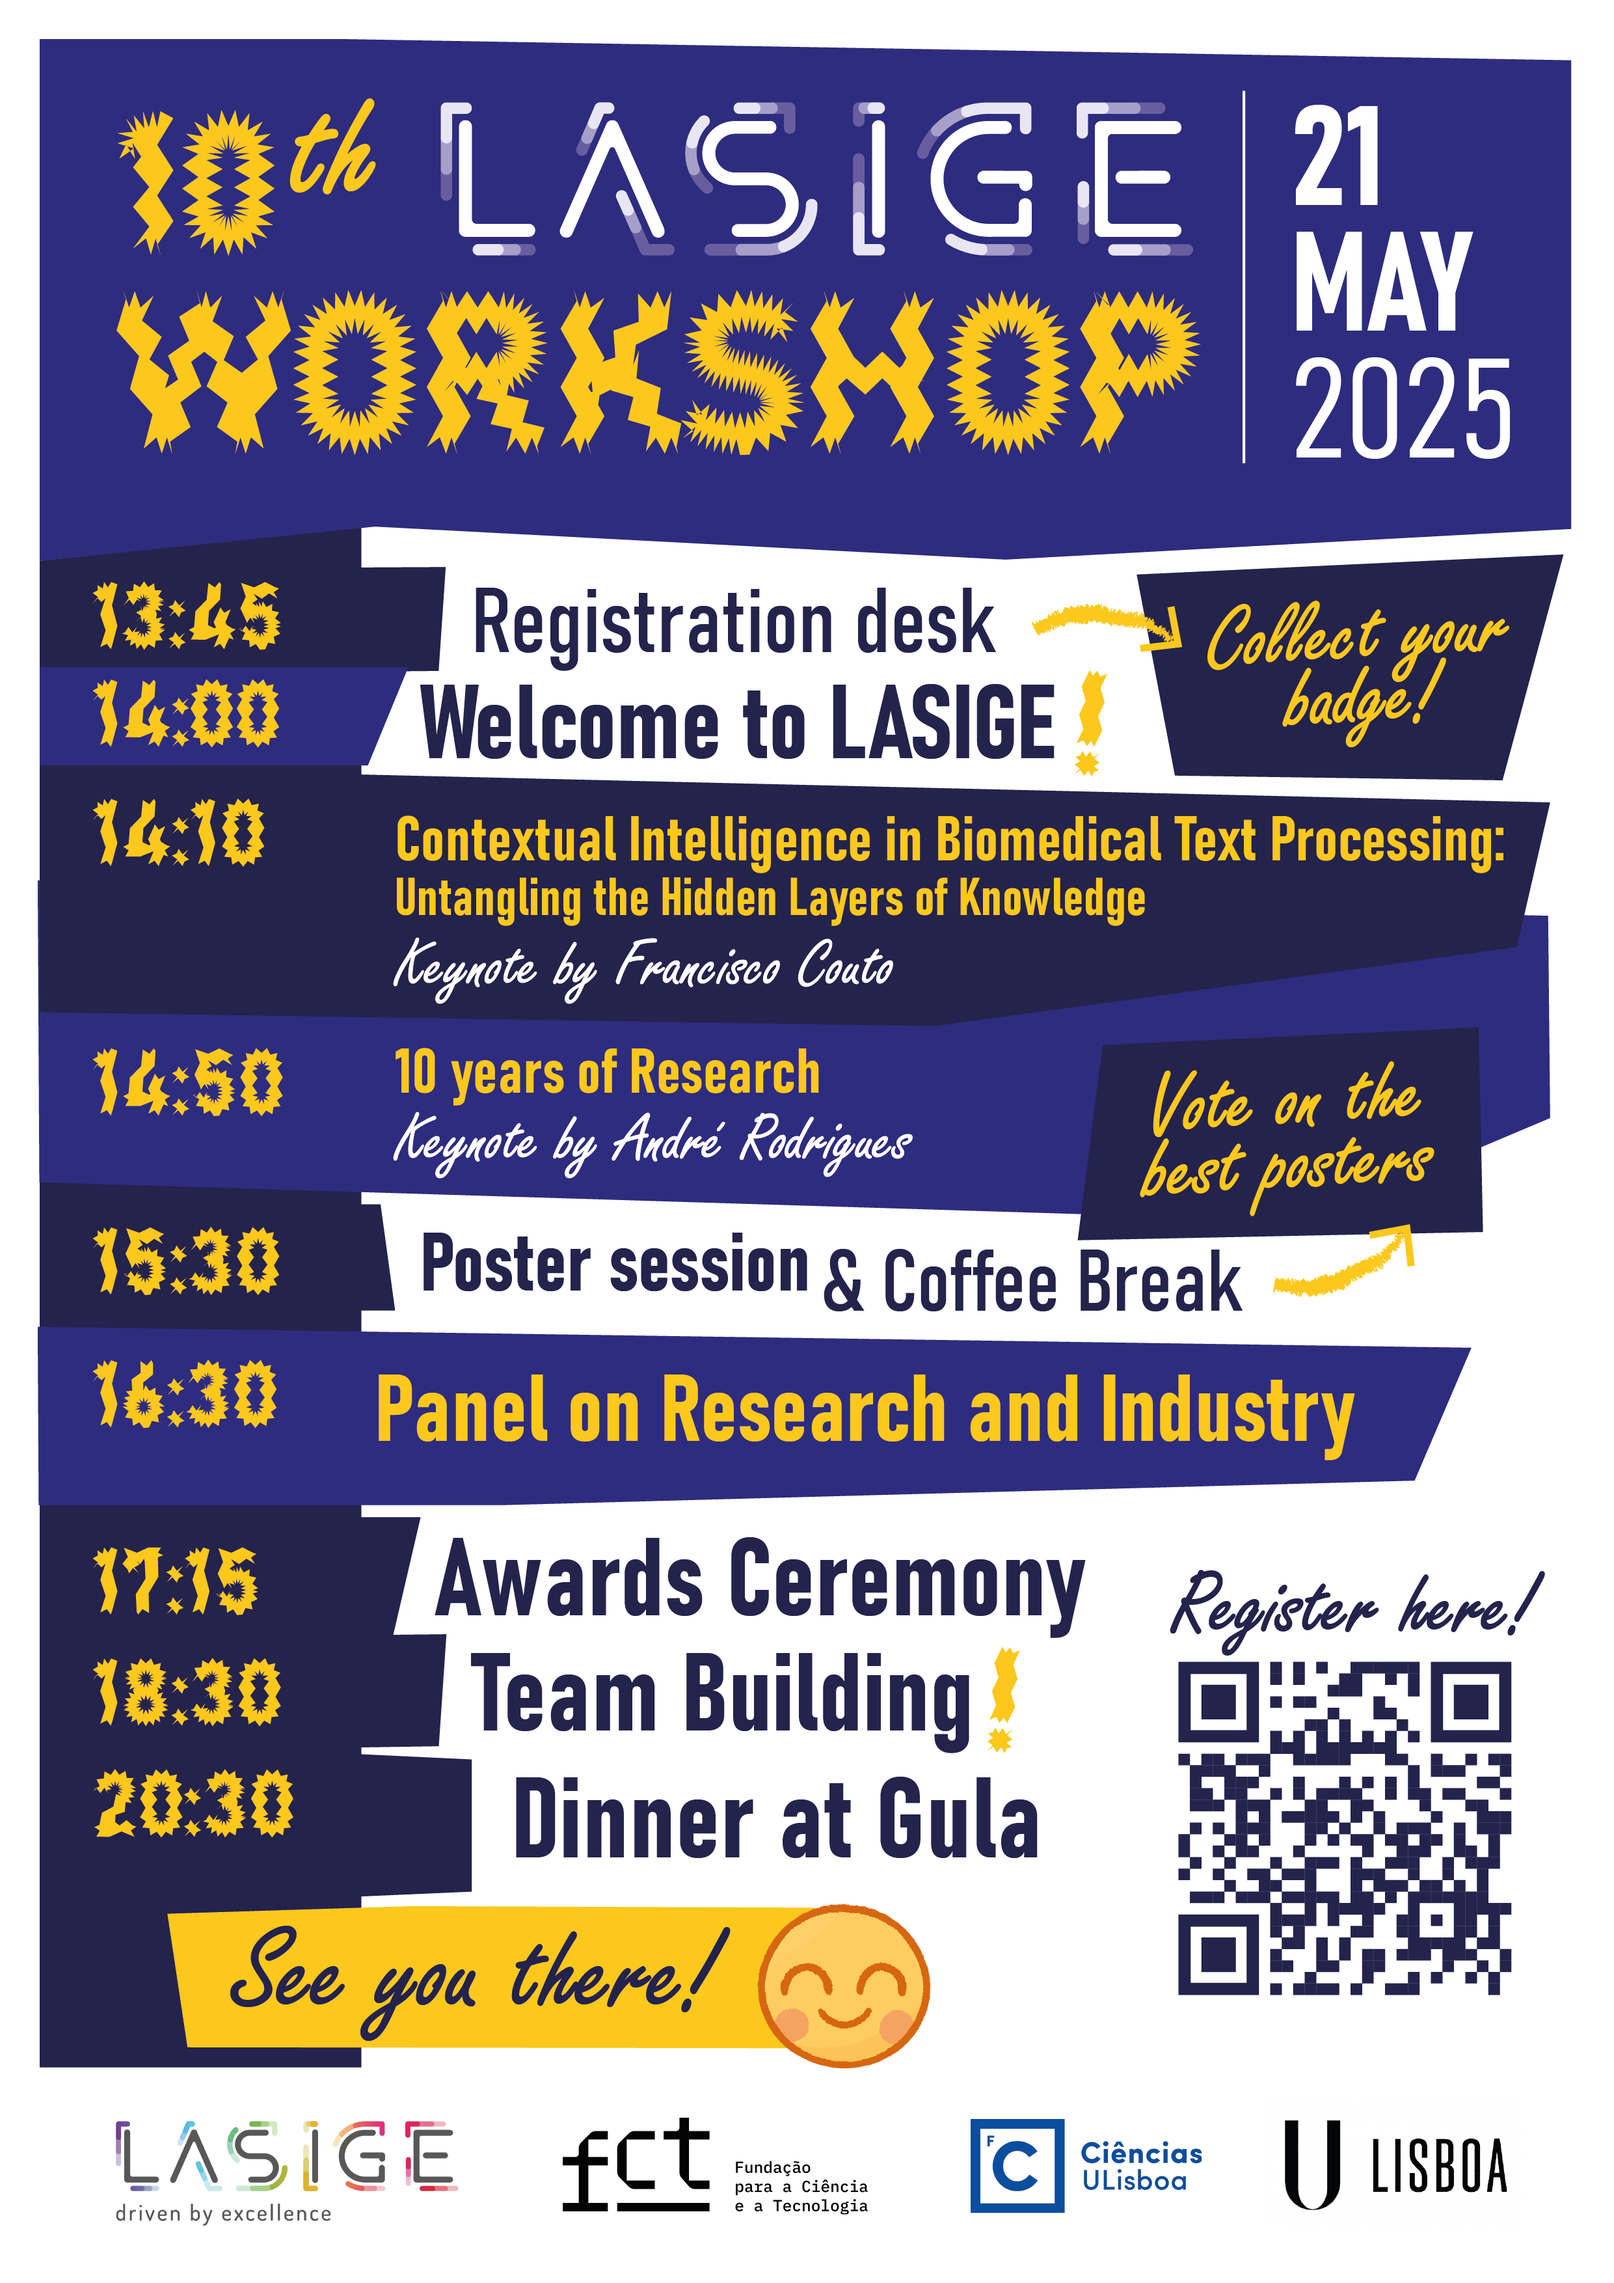
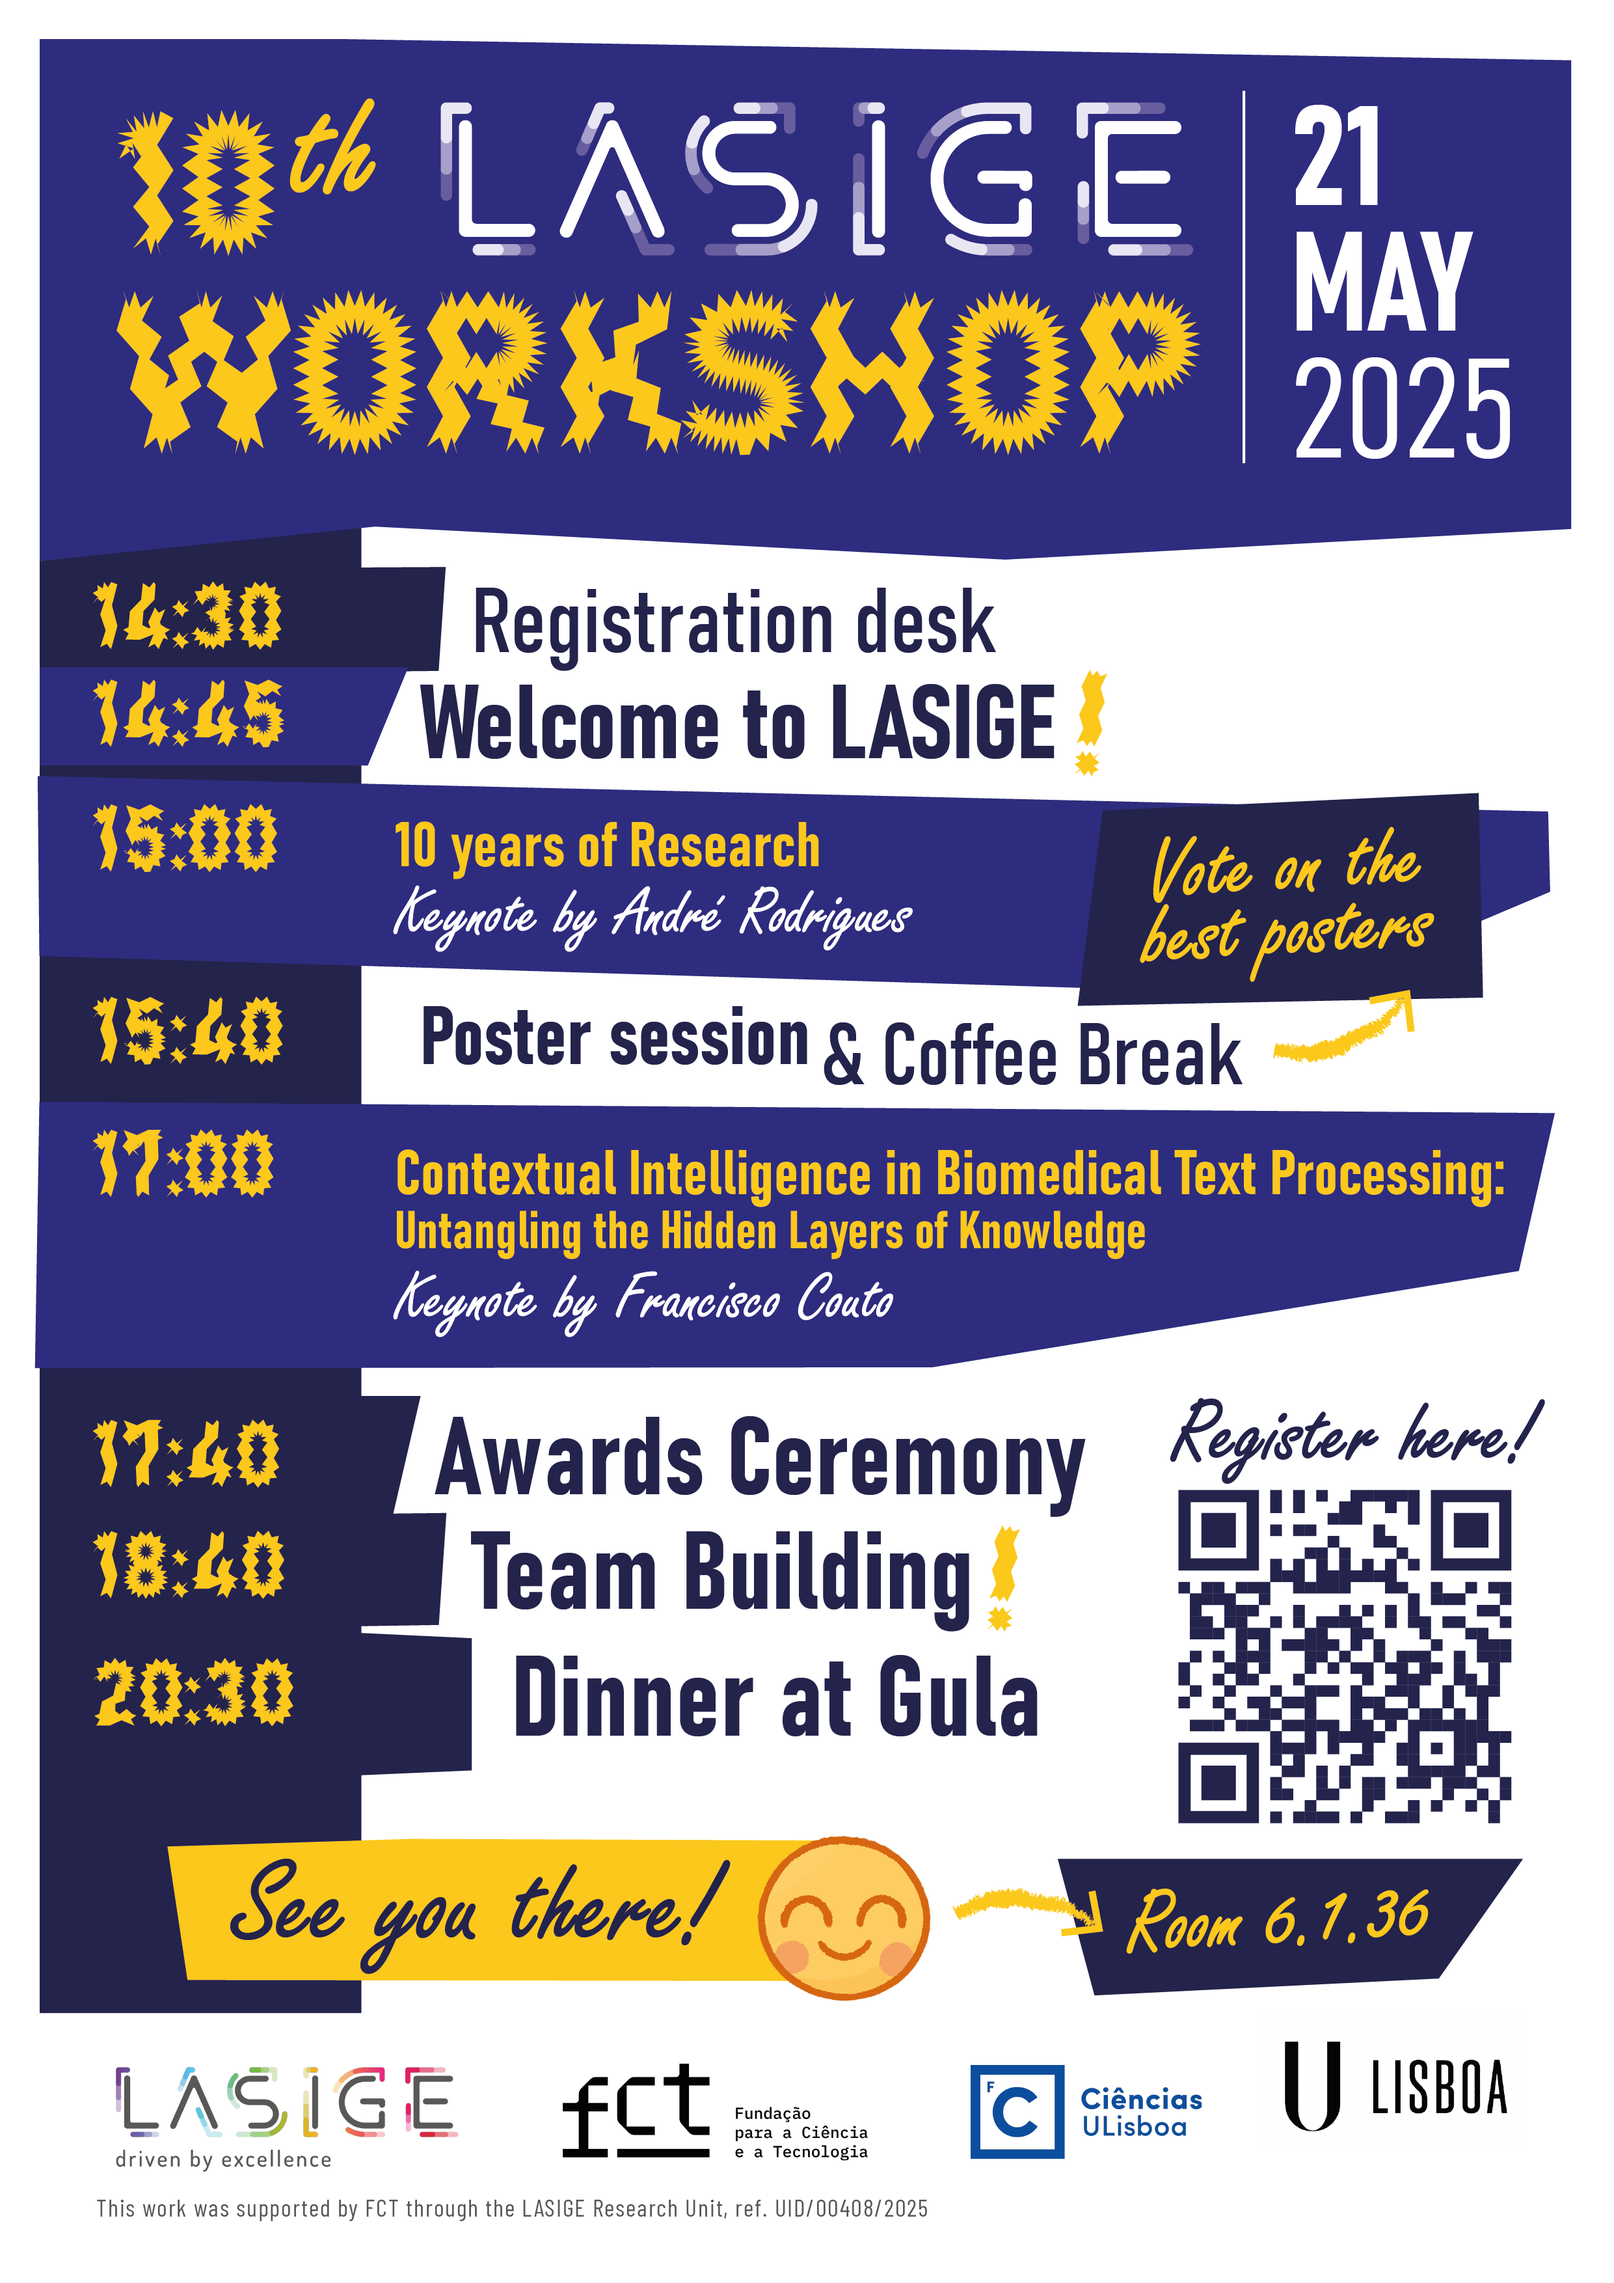
program update

diff --git a/js/workshop.js b/js/workshop.js
@@ -20,11 +20,10 @@ function showWorkshopInfo(workshop = -1) {
             $("#workshop_subtitle").text("");
             //$("#workshop_text").text("");
             $("#workshop_date").text("Date: May 21st");
-            $("#workshop_location").text("Location: Room TBD at FCUL");
+            $("#workshop_location").text("Location: 6.1.36");
             $("#workshop_more_form_text").text("");
-            $("#workshop_form").text("REGISTER HERE");
-            $("#workshop_form").attr("href", "https://forms.gle/zDFxguciHq8XcovYA");
-            $("#workshop_form").attr("style", "display:block");
+            $("#workshop_form").text("");
+            $("#workshop_form").attr("style", "display:none");
             
 
             $("#workshop_tabs").html(`
@@ -128,24 +127,23 @@ function showWorkshopMain(workshop = -1) {
                     <p>We have a day full of activities, come and join us!</p>
 
                     <ul class="list-left ">
-                    <li><strong>13:45</strong>      Registration</li>
-                    <li><strong>14:00</strong>      Welcome to LASIGE</li>
-                    <li><strong>14:10</strong>      "Contextual Intelligence in Biomedical Text Processing: Untangling the Hidden Layers of Knowledge" | Keynote talk by Francisco Couto</li>
-                    <li><strong>14:50</strong>      "10 years of Research" | Keynote talk by André Rodrigues</li>
-                    <li><strong>15:30</strong>      Poster Session and Coffee Break</li>
-                    <li><strong>16:30</strong>      Panel on Research and Industry</li>                    
-                    <li><strong>17:15</strong>      Awards Ceremony</li>
-                    <li><strong>18:30</strong>      Team Building</li>
+                    <li><strong>14:30</strong>      Registration</li>
+                    <li><strong>14:45</strong>      Welcome to LASIGE</li>
+                    <li><strong>15:00</strong>      "10 years of Research" | Keynote talk by André Rodrigues</li>
+                    <li><strong>15:40</strong>      Poster Session and Coffee Break</li>
+                    <li><strong>17:00</strong>      "Contextual Intelligence in Biomedical Text Processing: Untangling the Hidden Layers of Knowledge" | Keynote talk by Francisco Couto</li>                   
+                    <li><strong>17:40</strong>      Awards Ceremony</li>
+                    <li><strong>18:40</strong>      Team Building</li>
                     <li><strong>20:30</strong>      Dinner at Gula</li>
                     </ul>
-
-                    <h3 style="margin-top:50px;">"Contextual Intelligence in Biomedical Text Processing: Untangling the Hidden Layers of Knowledge"</h3>
-                    <p><strong>Speaker:</strong> Francisco Couto</p>
-                    <p><strong>Brief description:</strong> In today’s fast-paced biomedical research landscape, interpreting massive textual data is more important than ever. But what happens when the real story lies beyond the words, in subtle contextual clues that are easy to miss? When missed, these nuances can ripple outward, affecting everything from research breakthroughs to patient care. This presentation showcases how LASIGE is tackling the critical yet elusive role of context in biomedical text processing. Through their work in international challenges, LASIGE is aiming at shifting from ever growing need for unsustainable computational power to smarter, more contextual intelligence.</p>
 
                     <h3>"10 years of Research"</h3>
                     <p><strong>Speaker:</strong> André Rodrigues</p>
                     <p><strong>Brief description:</strong> This talk offers a personal account of my last ten years of research at LASIGE. I will reflect on publications/funding attempts and results, discuss changes in research goals alongside shifts in roles and career stage. I will discuss how collaborations evolve, the unseen benefits of service work, and the benefits (and privileges) of being a part of a larger research group. I will also share personal insights into ongoing negotiation of work-life balance and reflect on the interplay between luck, privilege and merit that influence research outcomes.</p>
+
+                    <h3 style="margin-top:50px;">"Contextual Intelligence in Biomedical Text Processing: Untangling the Hidden Layers of Knowledge"</h3>
+                    <p><strong>Speaker:</strong> Francisco Couto</p>
+                    <p><strong>Brief description:</strong> In today’s fast-paced biomedical research landscape, interpreting massive textual data is more important than ever. But what happens when the real story lies beyond the words, in subtle contextual clues that are easy to miss? When missed, these nuances can ripple outward, affecting everything from research breakthroughs to patient care. This presentation showcases how LASIGE is tackling the critical yet elusive role of context in biomedical text processing. Through their work in international challenges, LASIGE is aiming at shifting from ever growing need for unsustainable computational power to smarter, more contextual intelligence.</p>
 
                     <img class="img-fluid d-block mx-auto " src="assets/img/events/workshop/25/program.png" alt="... " />
                     `);
